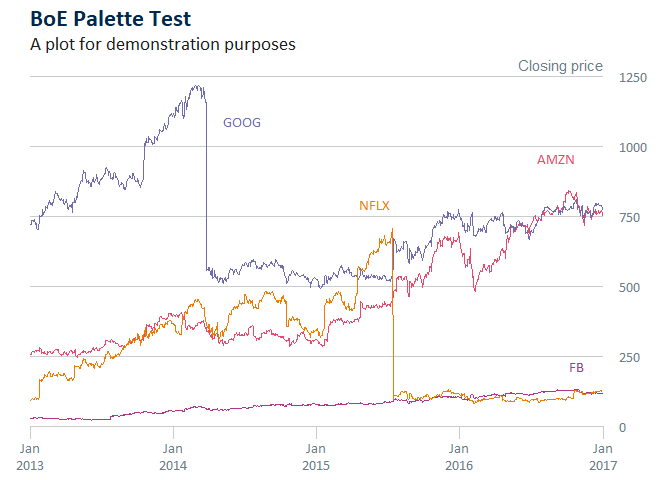
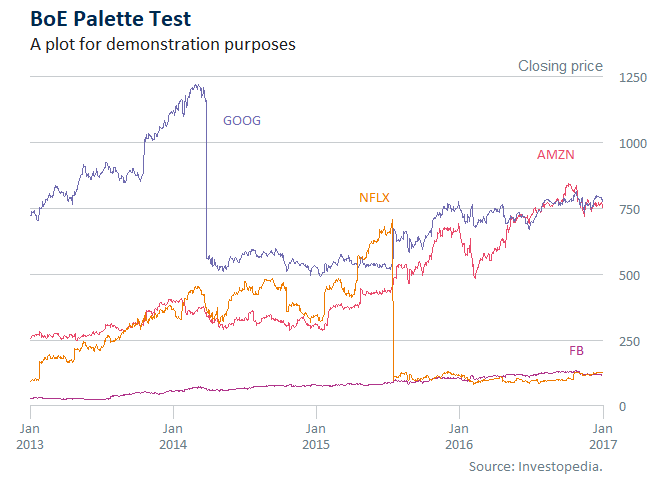
update readme

diff --git a/README.md b/README.md
@@ -82,18 +82,17 @@ library(boeCharts)
 #>      https://almplatform/tfs/UnmanagedCollection/Shared%20Analytical%20Code/_git/boeCharts?path=%2FREADME.md
 #> 
 library(ggplot2)
+library(palmerpenguins) # for example purposes only
 ```
 
 Here is an out-of-the-box `ggplot2` chart.
 
 ``` r
 # build chart
-chart <- ggplot(iris, aes(Sepal.Length, Sepal.Width, color = Species)) +
+(chart <- ggplot(penguins, aes(flipper_length_mm, body_mass_g, color = species)) +
   # jittery scatter
   geom_jitter(size = 3)
-
-# print chart
-chart
+)
 ```
 
 ![](man/figures/README-unnamed-chunk-6-1.png)
@@ -105,11 +104,10 @@ Overground](https://www.bankofengland.co.uk/bank-overground) chart
 theme:
 
 ``` r
-chart <- chart +
+(chart <- chart +
   # add Bank Overground theme
   theme_overground()
-
-chart
+)
 ```
 
 ![](man/figures/README-unnamed-chunk-7-1.png)
@@ -167,6 +165,7 @@ chart_fang <- ggplot(data = FANG, aes(x = date, y = close, colour = symbol)) +
   # add some chart labels
   labs(
     title = "BoE Palette Test", subtitle = "A plot for demonstration purposes",
+    caption = caption_boe(source = "Investopedia"),
     y = "Closing price", x = NULL
     ) +
   # use 'highlights' palette
@@ -184,10 +183,28 @@ chart_fang <- ggplot(data = FANG, aes(x = date, y = close, colour = symbol)) +
     )
 
 # re-position y axis title above plot
-move_ylab(chart_fang) 
+move_ylab(chart_fang)
 ```
 
 ![](man/figures/README-example-1.png)
+
+#### Markdown theme variants
+
+A Markdown variant of each {boeCharts} theme has been made with a `md_`
+suffix, like `theme_fsr_md()`. These themes add support for rendering
+text as markdown, thanks to the
+[ggtext](https://wilkelab.org/ggtext/index.html) package. Here’s an
+example:
+
+``` r
+fsr_chart_fang <- chart_fang +
+  theme_fsr_md() +
+  labs(title = "**Chart A.2** BoE Palette Test")
+
+move_ylab(fsr_chart_fang)
+```
+
+![](man/figures/README-unnamed-chunk-10-1.png)
 
 ### Using custom fonts
 
@@ -195,7 +212,9 @@ move_ylab(chart_fang)
 fonts R already uses (with help from the `extrafont` package). These
 fonts can be imported using an associated `import_` utility function.
 For example, to import Calibri (used by default in some `boeCharts`
-themes), you should run the `import_calibri()` function.
+themes), you should run the `import_calibri()` function. If you want to
+use fonts in PDF (or Postscript) output files, set the
+`boeCharts.loadfonts` option to `TRUE`.
 
 N.B. the font import step only needs to be run once on your machine.
 Fonts will be loaded automatically when you load `boeCharts` in future

diff --git a/NEWS.md b/NEWS.md
@@ -3,8 +3,8 @@
 - Added `position_voronoi()` to support direct line labelling (based on [this outstanding ggplot2 issue](https://github.com/tidyverse/ggplot2/issues/3093))
 - Added `theme_fsr()` and `fsr_palettes` for FSR-style charts
 - Added `caption_boe()` for formatting data sources and footnotes in chart captions
+- Added markdown variants for each {boeCharts} theme `theme_xxx_md()` to support markdown formatting
 - Demoted `grid`, `gtable` and `ggplotify` dependencies to "Suggests" (from "Imports")
-- Deprecated `boe_date_labels()` in favour of `scales::label_date_short()`
 - Removed `theme_inflation_report()`
 
 # boeCharts 1.2.3
